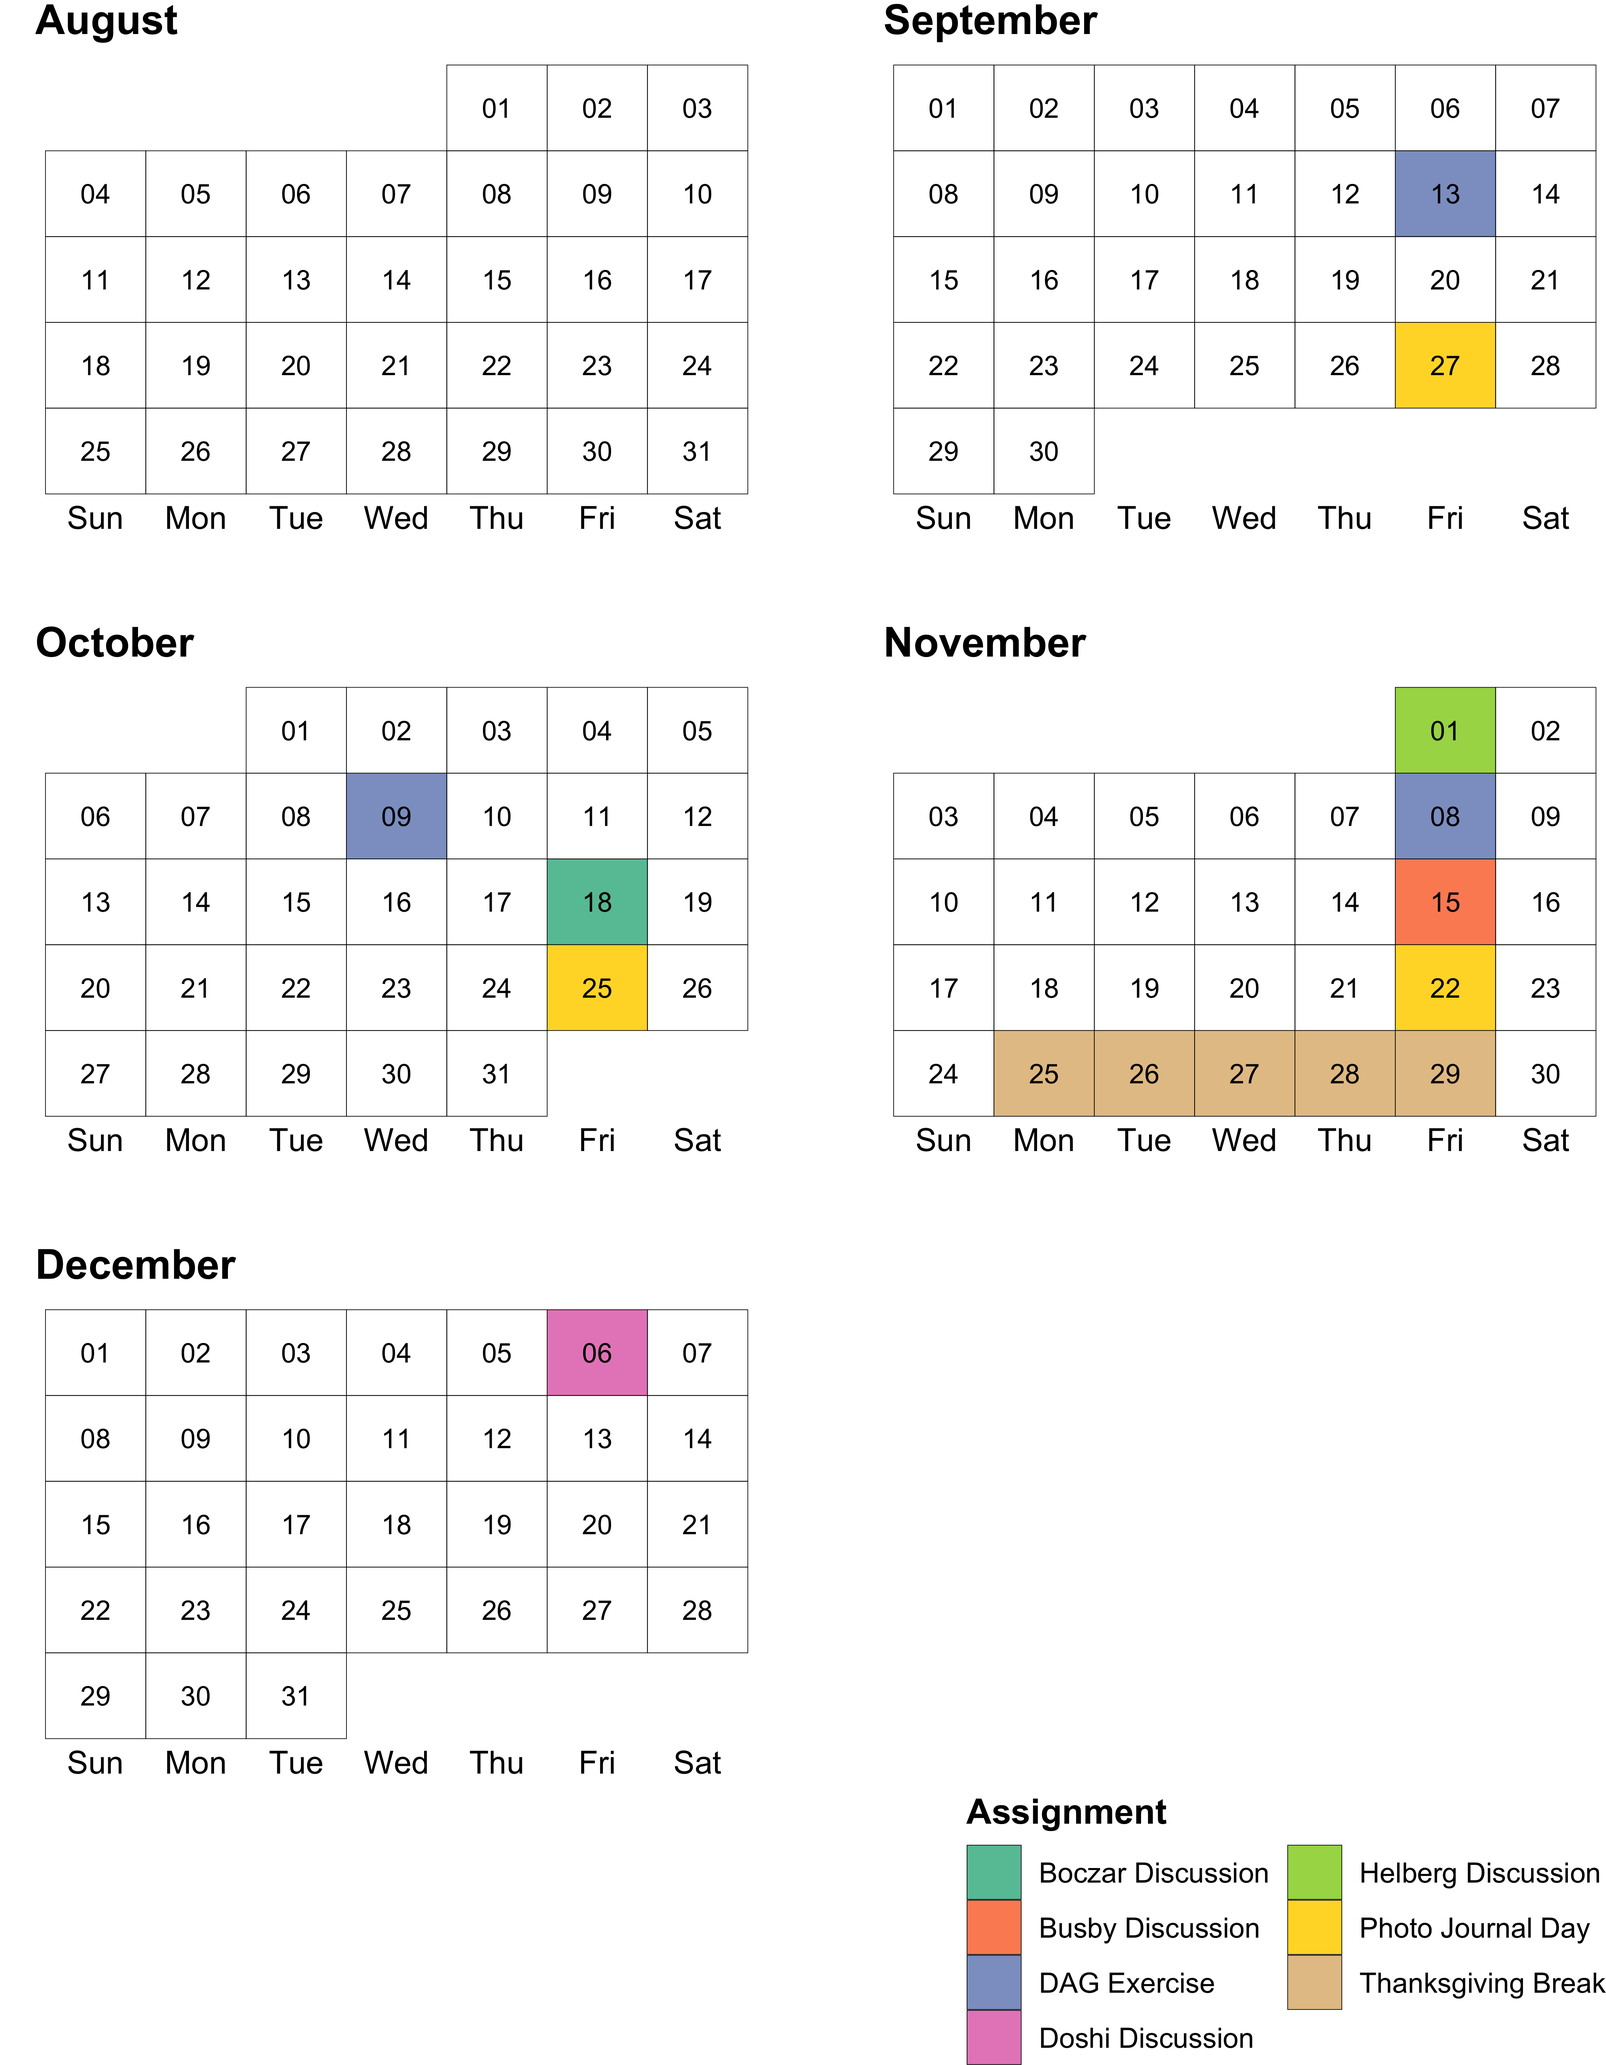
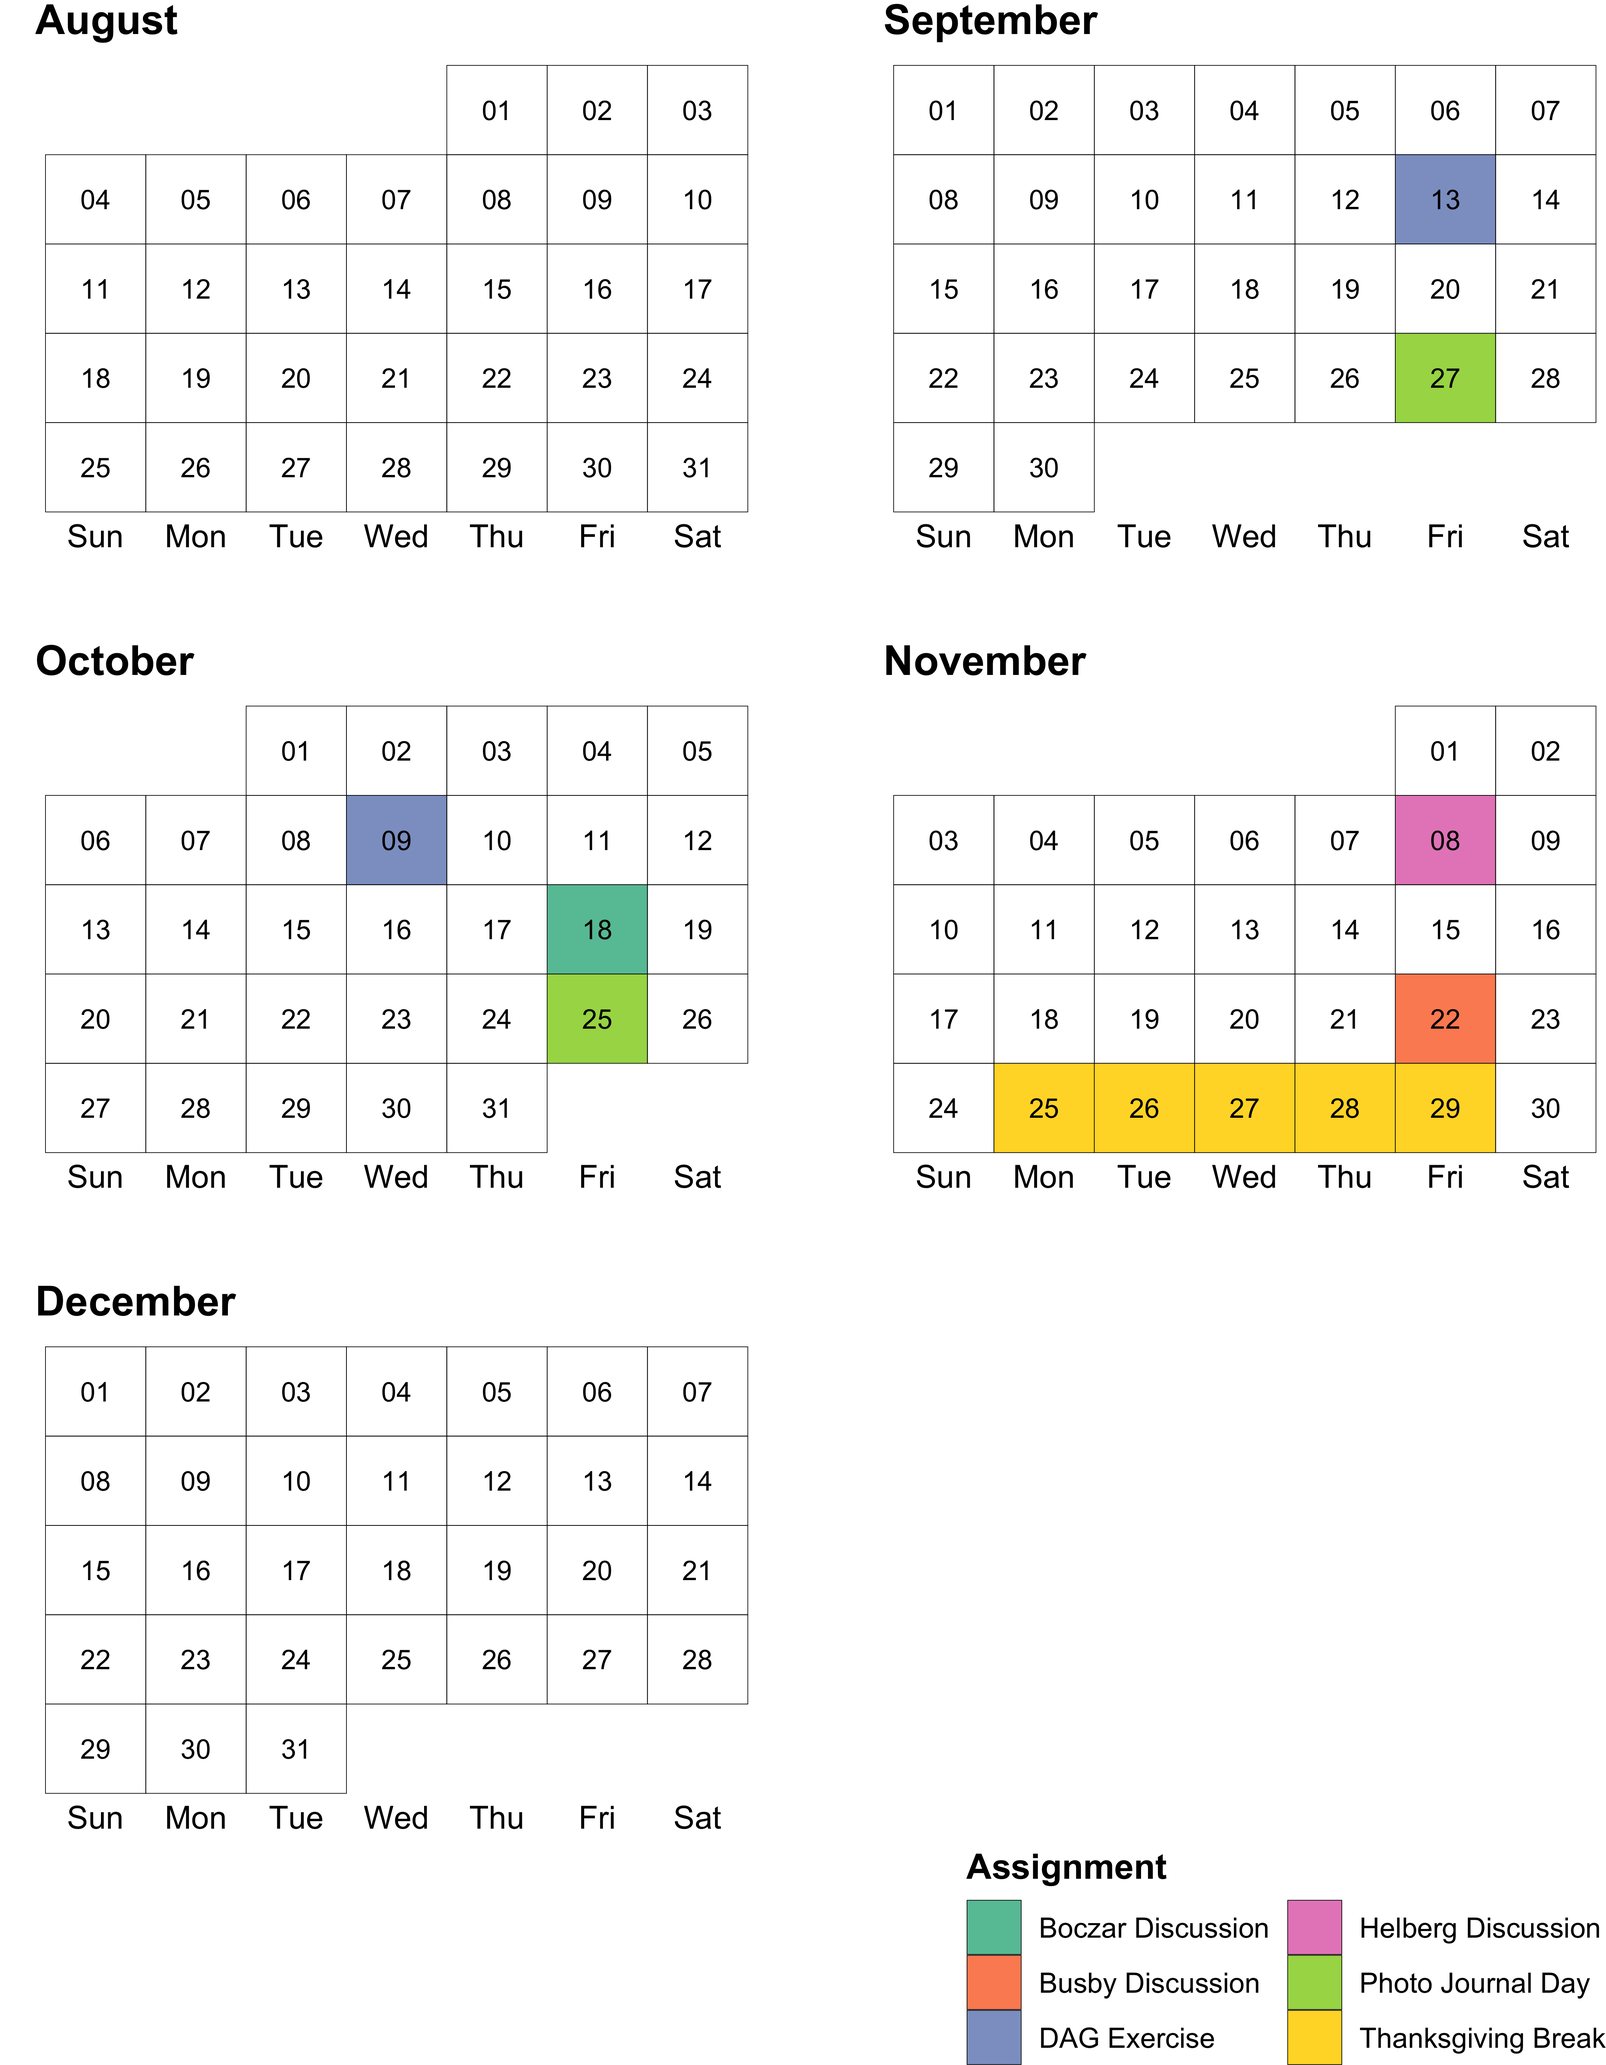
Update syllabus schedule.

diff --git a/docs/syllabus-f2024.html b/docs/syllabus-f2024.html
@@ -6,7 +6,7 @@
 
 <meta name="viewport" content="width=device-width, initial-scale=1.0, user-scalable=yes">
 
-<meta name="dcterms.date" content="2024-08-15">
+<meta name="dcterms.date" content="2024-10-21">
 <meta name="description" content="Course syllabus">
 
 <title>US Foreign Policy</title>
@@ -213,30 +213,33 @@ div.csl-indent {
   <ul class="collapse">
   <li><a href="#readings-and-assignments-8" id="toc-readings-and-assignments-8" class="nav-link" data-scroll-target="#readings-and-assignments-8">Readings and Assignments:</a></li>
   </ul></li>
-  <li><a href="#week-10-1021---1025-security-cooperation" id="toc-week-10-1021---1025-security-cooperation" class="nav-link" data-scroll-target="#week-10-1021---1025-security-cooperation">Week 10, 10/21 - 10/25: Security Cooperation</a>
+  <li><a href="#week-10-1021---1025-the-use-of-force-cont.-and-security-cooperation" id="toc-week-10-1021---1025-the-use-of-force-cont.-and-security-cooperation" class="nav-link" data-scroll-target="#week-10-1021---1025-the-use-of-force-cont.-and-security-cooperation">Week 10, 10/21 - 10/25: The Use of Force (cont.) and Security Cooperation</a>
   <ul class="collapse">
   <li><a href="#readings-and-assignments-9" id="toc-readings-and-assignments-9" class="nav-link" data-scroll-target="#readings-and-assignments-9">Readings and Assignments:</a></li>
   </ul></li>
-  <li><a href="#week-11-1028---1101-trade-immigration-finance-and-monetary-policy" id="toc-week-11-1028---1101-trade-immigration-finance-and-monetary-policy" class="nav-link" data-scroll-target="#week-11-1028---1101-trade-immigration-finance-and-monetary-policy">Week 11, 10/28 - 11/01: Trade, Immigration, Finance, and Monetary Policy</a>
+  <li><a href="#week-11-1028---1101" id="toc-week-11-1028---1101" class="nav-link" data-scroll-target="#week-11-1028---1101">Week 11, 10/28 - 11/01:</a>
+  <ul class="collapse">
+  <li><a href="#readings-and-assignments-security-cooperation-and-alliances" id="toc-readings-and-assignments-security-cooperation-and-alliances" class="nav-link" data-scroll-target="#readings-and-assignments-security-cooperation-and-alliances">Readings and Assignments: Security Cooperation and Alliances</a></li>
+  </ul></li>
+  <li><a href="#week-12-1104---1108" id="toc-week-12-1104---1108" class="nav-link" data-scroll-target="#week-12-1104---1108">Week 12, 11/04 - 11/08:</a>
+  <ul class="collapse">
+  <li><a href="#readings-and-assignments-trade-immigration-finance-and-monetary-policy" id="toc-readings-and-assignments-trade-immigration-finance-and-monetary-policy" class="nav-link" data-scroll-target="#readings-and-assignments-trade-immigration-finance-and-monetary-policy">Readings and Assignments: Trade, Immigration, Finance, and Monetary Policy</a></li>
+  </ul></li>
+  <li><a href="#week-13-1111---1115" id="toc-week-13-1111---1115" class="nav-link" data-scroll-target="#week-13-1111---1115">Week 13, 11/11 - 11/15:</a>
+  <ul class="collapse">
+  <li><a href="#readings-and-assignments-trade-immigration-finance-and-monetary-policy-cont." id="toc-readings-and-assignments-trade-immigration-finance-and-monetary-policy-cont." class="nav-link" data-scroll-target="#readings-and-assignments-trade-immigration-finance-and-monetary-policy-cont.">Readings and Assignments: Trade, Immigration, Finance, and Monetary Policy (cont.)</a></li>
+  </ul></li>
+  <li><a href="#week-14-1118---1122-environmental-politics-and-us-foreign-policy" id="toc-week-14-1118---1122-environmental-politics-and-us-foreign-policy" class="nav-link" data-scroll-target="#week-14-1118---1122-environmental-politics-and-us-foreign-policy">Week 14, 11/18 - 11/22: Environmental Politics and US Foreign Policy</a>
   <ul class="collapse">
   <li><a href="#readings-and-assignments-10" id="toc-readings-and-assignments-10" class="nav-link" data-scroll-target="#readings-and-assignments-10">Readings and Assignments:</a></li>
   </ul></li>
-  <li><a href="#week-12-1104---1108-trade-immigration-finance-and-monetary-policy-cont." id="toc-week-12-1104---1108-trade-immigration-finance-and-monetary-policy-cont." class="nav-link" data-scroll-target="#week-12-1104---1108-trade-immigration-finance-and-monetary-policy-cont.">Week 12, 11/04 - 11/08: Trade, Immigration, Finance, and Monetary Policy (cont.)</a>
+  <li><a href="#week-15-1125---1129-thanksgiving-break-no-class" id="toc-week-15-1125---1129-thanksgiving-break-no-class" class="nav-link" data-scroll-target="#week-15-1125---1129-thanksgiving-break-no-class">Week 15, 11/25 - 11/29: Thanksgiving Break (No Class)</a>
   <ul class="collapse">
   <li><a href="#readings-and-assignments-11" id="toc-readings-and-assignments-11" class="nav-link" data-scroll-target="#readings-and-assignments-11">Readings and Assignments:</a></li>
   </ul></li>
-  <li><a href="#week-13-1111---1115-environmental-politics-and-us-foreign-policy" id="toc-week-13-1111---1115-environmental-politics-and-us-foreign-policy" class="nav-link" data-scroll-target="#week-13-1111---1115-environmental-politics-and-us-foreign-policy">Week 13, 11/11 - 11/15: Environmental Politics and US Foreign Policy</a></li>
-  <li><a href="#week-14-1118---1122-human-rights-issues" id="toc-week-14-1118---1122-human-rights-issues" class="nav-link" data-scroll-target="#week-14-1118---1122-human-rights-issues">Week 14, 11/18 - 11/22: Human Rights Issues</a>
+  <li><a href="#week-16-1202---1206-human-rights-issues" id="toc-week-16-1202---1206-human-rights-issues" class="nav-link" data-scroll-target="#week-16-1202---1206-human-rights-issues">Week 16, 12/02 - 12/06: Human Rights Issues</a>
   <ul class="collapse">
   <li><a href="#readings-and-assignments-12" id="toc-readings-and-assignments-12" class="nav-link" data-scroll-target="#readings-and-assignments-12">Readings and Assignments:</a></li>
-  </ul></li>
-  <li><a href="#week-15-1125---1129-thanksgiving-break-no-class" id="toc-week-15-1125---1129-thanksgiving-break-no-class" class="nav-link" data-scroll-target="#week-15-1125---1129-thanksgiving-break-no-class">Week 15, 11/25 - 11/29: Thanksgiving Break (No Class)</a>
-  <ul class="collapse">
-  <li><a href="#readings-and-assignments-13" id="toc-readings-and-assignments-13" class="nav-link" data-scroll-target="#readings-and-assignments-13">Readings and Assignments:</a></li>
-  </ul></li>
-  <li><a href="#week-16-1202---1206-us-and-chinese-competition" id="toc-week-16-1202---1206-us-and-chinese-competition" class="nav-link" data-scroll-target="#week-16-1202---1206-us-and-chinese-competition">Week 16, 12/02 - 12/06: US and Chinese Competition</a>
-  <ul class="collapse">
-  <li><a href="#readings-and-assignments-14" id="toc-readings-and-assignments-14" class="nav-link" data-scroll-target="#readings-and-assignments-14">Readings and Assignments:</a></li>
   </ul></li>
   </ul>
 </nav>
@@ -262,7 +265,7 @@ div.csl-indent {
     <div>
     <div class="quarto-title-meta-heading">Published</div>
     <div class="quarto-title-meta-contents">
-      <p class="date">August 15, 2024</p>
+      <p class="date">October 21, 2024</p>
     </div>
   </div>
   
@@ -517,52 +520,54 @@ div.csl-indent {
 </ul>
 </section>
 </section>
-<section id="week-10-1021---1025-security-cooperation" class="level2">
-<h2 class="anchored" data-anchor-id="week-10-1021---1025-security-cooperation">Week 10, 10/21 - 10/25: Security Cooperation</h2>
+<section id="week-10-1021---1025-the-use-of-force-cont.-and-security-cooperation" class="level2">
+<h2 class="anchored" data-anchor-id="week-10-1021---1025-the-use-of-force-cont.-and-security-cooperation">Week 10, 10/21 - 10/25: The Use of Force (cont.) and Security Cooperation</h2>
 <section id="readings-and-assignments-9" class="level3">
 <h3 class="anchored" data-anchor-id="readings-and-assignments-9">Readings and Assignments:</h3>
-<p>Wednesday, October 23 Read: - <a href="https://theconversation.com/why-does-the-us-pay-so-much-for-the-defense-of-its-allies-5-questions-answered-127683">Flynn, Allen, and Martinez Machain 2019</a></p>
+</section>
+</section>
+<section id="week-11-1028---1101" class="level2">
+<h2 class="anchored" data-anchor-id="week-11-1028---1101">Week 11, 10/28 - 11/01:</h2>
+<section id="readings-and-assignments-security-cooperation-and-alliances" class="level3">
+<h3 class="anchored" data-anchor-id="readings-and-assignments-security-cooperation-and-alliances">Readings and Assignments: Security Cooperation and Alliances</h3>
 <ul>
-<li><a href="https://theconversation.com/the-us-military-presence-in-europe-has-been-declining-for-30-years-the-current-crisis-in-ukraine-may-reverse-that-trend-175595">Allen, Martinez Machain, and Flynn 2022</a></li>
+<li><p><a href="https://theconversation.com/why-does-the-us-pay-so-much-for-the-defense-of-its-allies-5-questions-answered-127683">Flynn, Allen, and Martinez Machain 2019</a></p></li>
+<li><p><a href="https://theconversation.com/the-us-military-presence-in-europe-has-been-declining-for-30-years-the-current-crisis-in-ukraine-may-reverse-that-trend-175595">Allen, Martinez Machain, and Flynn 2022</a></p></li>
 </ul>
 </section>
 </section>
-<section id="week-11-1028---1101-trade-immigration-finance-and-monetary-policy" class="level2">
-<h2 class="anchored" data-anchor-id="week-11-1028---1101-trade-immigration-finance-and-monetary-policy">Week 11, 10/28 - 11/01: Trade, Immigration, Finance, and Monetary Policy</h2>
-<section id="readings-and-assignments-10" class="level3">
-<h3 class="anchored" data-anchor-id="readings-and-assignments-10">Readings and Assignments:</h3>
+<section id="week-12-1104---1108" class="level2">
+<h2 class="anchored" data-anchor-id="week-12-1104---1108">Week 12, 11/04 - 11/08:</h2>
+<section id="readings-and-assignments-trade-immigration-finance-and-monetary-policy" class="level3">
+<h3 class="anchored" data-anchor-id="readings-and-assignments-trade-immigration-finance-and-monetary-policy">Readings and Assignments: Trade, Immigration, Finance, and Monetary Policy</h3>
 <ul>
 <li>Read <span class="citation" data-cites="Helberg2022">Helberg (<a href="#ref-Helberg2022" role="doc-biblioref">2022</a>)</span></li>
 <li>Read <span class="citation" data-cites="Oneil2022">O’Neil (<a href="#ref-Oneil2022" role="doc-biblioref">n.d.</a>)</span></li>
 </ul>
 </section>
 </section>
-<section id="week-12-1104---1108-trade-immigration-finance-and-monetary-policy-cont." class="level2">
-<h2 class="anchored" data-anchor-id="week-12-1104---1108-trade-immigration-finance-and-monetary-policy-cont.">Week 12, 11/04 - 11/08: Trade, Immigration, Finance, and Monetary Policy (cont.)</h2>
-<section id="readings-and-assignments-11" class="level3">
-<h3 class="anchored" data-anchor-id="readings-and-assignments-11">Readings and Assignments:</h3>
-</section>
-</section>
-<section id="week-13-1111---1115-environmental-politics-and-us-foreign-policy" class="level2">
-<h2 class="anchored" data-anchor-id="week-13-1111---1115-environmental-politics-and-us-foreign-policy">Week 13, 11/11 - 11/15: Environmental Politics and US Foreign Policy</h2>
+<section id="week-13-1111---1115" class="level2">
+<h2 class="anchored" data-anchor-id="week-13-1111---1115">Week 13, 11/11 - 11/15:</h2>
+<section id="readings-and-assignments-trade-immigration-finance-and-monetary-policy-cont." class="level3">
+<h3 class="anchored" data-anchor-id="readings-and-assignments-trade-immigration-finance-and-monetary-policy-cont.">Readings and Assignments: Trade, Immigration, Finance, and Monetary Policy (cont.)</h3>
 <ul>
-<li>Read <span class="citation" data-cites="Busby2022">Busby (<a href="#ref-Busby2022" role="doc-biblioref">2022</a>)</span></li>
+<li>NA</li>
 </ul>
 </section>
-<section id="week-14-1118---1122-human-rights-issues" class="level2">
-<h2 class="anchored" data-anchor-id="week-14-1118---1122-human-rights-issues">Week 14, 11/18 - 11/22: Human Rights Issues</h2>
-<section id="readings-and-assignments-12" class="level3">
-<h3 class="anchored" data-anchor-id="readings-and-assignments-12">Readings and Assignments:</h3>
+</section>
+<section id="week-14-1118---1122-environmental-politics-and-us-foreign-policy" class="level2">
+<h2 class="anchored" data-anchor-id="week-14-1118---1122-environmental-politics-and-us-foreign-policy">Week 14, 11/18 - 11/22: Environmental Politics and US Foreign Policy</h2>
+<section id="readings-and-assignments-10" class="level3">
+<h3 class="anchored" data-anchor-id="readings-and-assignments-10">Readings and Assignments:</h3>
 <ul>
-<li>Read <span class="citation" data-cites="Ballve2009">Ballvé (<a href="#ref-Ballve2009" role="doc-biblioref">2009</a>)</span></li>
-<li>Read <span class="citation" data-cites="Diamond2023">Diamond (<a href="#ref-Diamond2023" role="doc-biblioref">2023</a>)</span></li>
+<li>Read <span class="citation" data-cites="Busby2022">Busby (<a href="#ref-Busby2022" role="doc-biblioref">2022</a>)</span></li>
 </ul>
 </section>
 </section>
 <section id="week-15-1125---1129-thanksgiving-break-no-class" class="level2">
 <h2 class="anchored" data-anchor-id="week-15-1125---1129-thanksgiving-break-no-class">Week 15, 11/25 - 11/29: Thanksgiving Break (No Class)</h2>
-<section id="readings-and-assignments-13" class="level3">
-<h3 class="anchored" data-anchor-id="readings-and-assignments-13">Readings and Assignments:</h3>
+<section id="readings-and-assignments-11" class="level3">
+<h3 class="anchored" data-anchor-id="readings-and-assignments-11">Readings and Assignments:</h3>
 <ol type="1">
 <li>Get some rest</li>
 <li>Enjoy yourselves</li>
@@ -571,12 +576,13 @@ div.csl-indent {
 </ol>
 </section>
 </section>
-<section id="week-16-1202---1206-us-and-chinese-competition" class="level2">
-<h2 class="anchored" data-anchor-id="week-16-1202---1206-us-and-chinese-competition">Week 16, 12/02 - 12/06: US and Chinese Competition</h2>
-<section id="readings-and-assignments-14" class="level3">
-<h3 class="anchored" data-anchor-id="readings-and-assignments-14">Readings and Assignments:</h3>
+<section id="week-16-1202---1206-human-rights-issues" class="level2">
+<h2 class="anchored" data-anchor-id="week-16-1202---1206-human-rights-issues">Week 16, 12/02 - 12/06: Human Rights Issues</h2>
+<section id="readings-and-assignments-12" class="level3">
+<h3 class="anchored" data-anchor-id="readings-and-assignments-12">Readings and Assignments:</h3>
 <ul>
-<li>Read <span class="citation" data-cites="Doshi2023">Doshi (<a href="#ref-Doshi2023" role="doc-biblioref">2023</a>)</span></li>
+<li>Read <span class="citation" data-cites="Ballve2009">Ballvé (<a href="#ref-Ballve2009" role="doc-biblioref">2009</a>)</span></li>
+<li>Read <span class="citation" data-cites="Diamond2023">Diamond (<a href="#ref-Diamond2023" role="doc-biblioref">2023</a>)</span></li>
 </ul>
 
 
